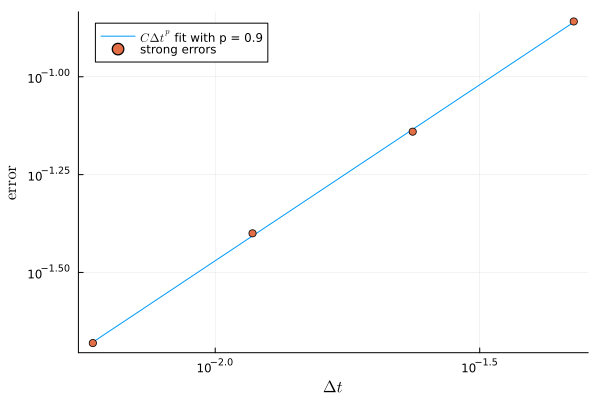
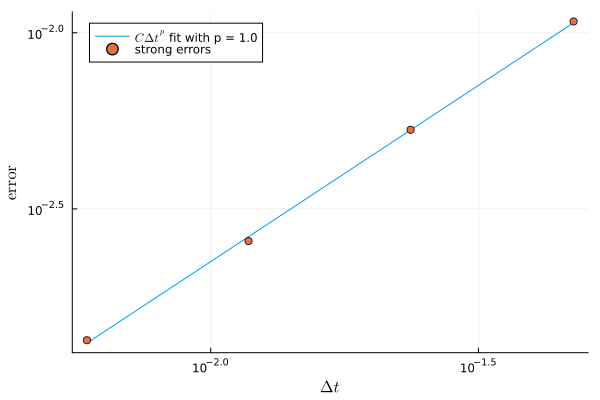
change parameters

diff --git a/docs/src/examples/10-risk.md b/docs/src/examples/10-risk.md
@@ -12,7 +12,7 @@ A classical model for the surplus $U_t$ at time $t$ of an insurance company is t
 ```math
   U_t = U_0 + \gamma t - \sum_{i=1}^{N_t} C_i
 ```
-where $U_0$ is the initial capital, $\gamma$ is a constant premium rate received from the insurees, $C_i$ is a random variable representing the value of the $i$-th claim paid to a given insuree, and $N_t$ is the number of claims up to time $t$. The process $\{N_t\}_t$ is modeled as a Poisson counter, so that the accumulated claims form a compound Poisson process. It is also common to use inhomogeneous Poisson processes and Hawkes self-exciting process, or combinations of such processes, but the classical model uses a compound Poisson process.
+where $U_0$ is the initial capital, $\gamma$ is a constant premium rate received from the insurees, $C_i$ is a random variable representing the value of the $i$-th claim paid to a given insuree, and $N_t$ is the number of claims up to time $t$. The process $\{N_t\}_t$ is modeled as a Poisson counter, so that the accumulated claims form a compound Poisson process. It is also common to use inhomogeneous Poisson processes and Hawkes self-exciting process, or combinations of such processes for the incidence of the claim, but the classical model uses a homogeneous Poisson counter.
 
 The model above, however, does not take into account the variability of the premium rate received by the company, nor the investiment of the accumulated reserves, among other things. Several diffusion type models have been proposed to account for these and other factors. We will consider a simple model, with a randomly perturbed premium and with variable rentability.
 
@@ -103,19 +103,19 @@ t0, tf = 0.0, 3.0
 The law for the initial condition
 
 ````@example 10-risk
-x0 = 4.0
+x0 = 1.0
 x0law = Dirac(x0)
 ````
 
 The Ornstein-Uhlenbeck, geometric Brownian motion, and compound Poisson processes for the noise term
 
 ````@example 10-risk
-OU0 = 0.1
+OU0 = 0.0
 OUγ = 1.0
 Ouε = 0.8
 M0 = 0.2
 Mμ = 0.05
-Mσ = 0.4
+Mσ = 0.1
 CM = 0.1
 Cλ = 4.0
 Claw = Uniform(0.0, CM)
